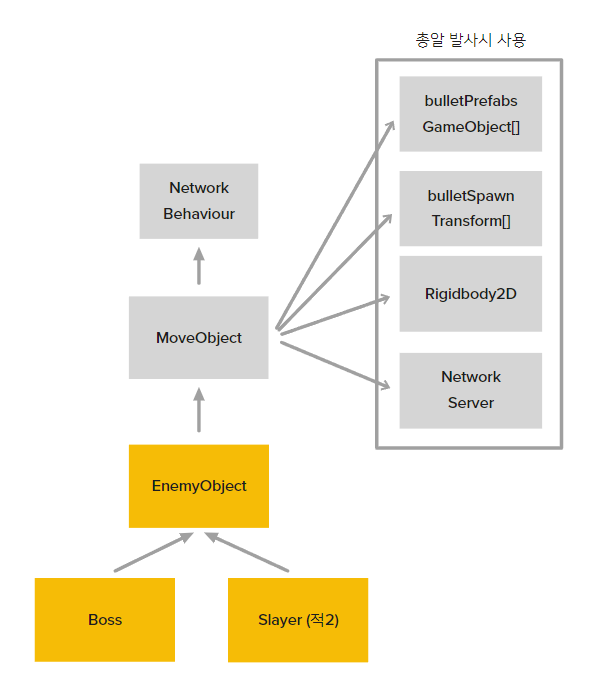
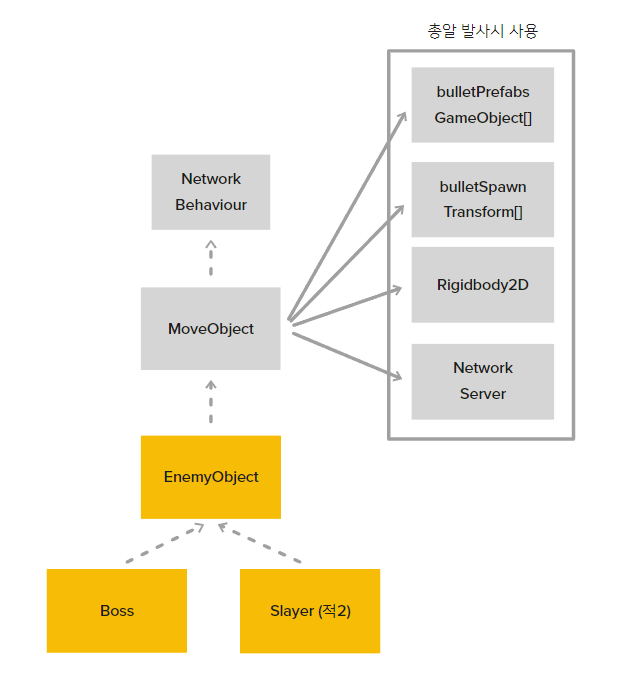
update bullet 이미지 추가 enemy 내용 수정

Changed region(s): [[0.4339, 0.0302, 0.9299, 0.6647], [0.031, 0.2115, 0.6199, 0.9669]]

diff --git a/UnityProject/NetworkShooting/Description/Bullet/Readme.md b/UnityProject/NetworkShooting/Description/Bullet/Readme.md
@@ -1,0 +1,76 @@
+# Bullet
+
+
+<center>
+
+
+## Bullet 상속 구조
+![이미지]()
+
+
+</center>
+
+<br>
+
+## 바로가기
+### Connect Scene
+ - [기본 총알](#기본-bullet)
+ - [유저 총알](#유저-bullet)
+ - [Boss Bomb](#보스-Bomb)
+
+
+<br>
+
+## [이전 창으로 돌아가기](https://github.com/shehdrbs123/Dongs-Portfolio/tree/main/UnityProject/NetworkShooting)
+
+<br>
+
+## 기본 Bullet
+<center>
+
+ |<H3><b>기본 bullet</b></H3>||
+ |:---:|:---:|
+ |![미리보기](_Image/enemy%20base%20weapon.png)||
+
+</center>
+
+## 구현 내용
+
+## [위로가기](#네트워킹)
+
+<br>
+
+## 유저 Bullet
+
+<center>
+
+ |<H3><b>Network Components 구조도</b></H3>|
+ |:---:|
+ |![미리보기](_Image/base%20weapon.png)|
+
+</center>
+
+## 구현 내용
+
+## [위로가기](#네트워킹)
+
+<br>
+
+## 보스 Bomb
+
+<center>
+
+ |<H3><b>Network Components 구조도</b></H3>|
+ |:---:|
+ |![미리보기](_Image/BossBomb.png) ![미리보기](_Image/bossbomb%20Shrapnel.png)|
+
+</center>
+
+## 구현 내용
+
+## [위로가기](#네트워킹)
+
+<br>
+
+
+## [이전 창으로 돌아가기](https://github.com/shehdrbs123/Dongs-Portfolio/tree/main/UnityProject/NetworkShooting)

diff --git a/UnityProject/NetworkShooting/Description/Enemy/Readme.md b/UnityProject/NetworkShooting/Description/Enemy/Readme.md
@@ -7,8 +7,8 @@
 |:---:|
 |![미리보기](_Image/EnemyObject%20클래스%20구조.png)|
 
-다음은 모든 EnemyObject의 설명 문서입니다.
- 
+다음은 EnemyObject의 상속 구조도 입니다.<br>
+EnemyObject의 기본 모형에 맞추어 Boss, 추가기능을 하는 Slayer(적2)를 구현하였습니다.
 </center>
 
 ## 바로가기
@@ -26,7 +26,7 @@
 
 ## Spawner
 
-|<H3><b>Spanwer Enemy Spawn 모습</b></H3>|
+|<H3><b>Spanwer의 Enemy Spawn 모습</b></H3>|
 |:---:|
 |![미리보기](_Image/Spawner.gif)|
 
